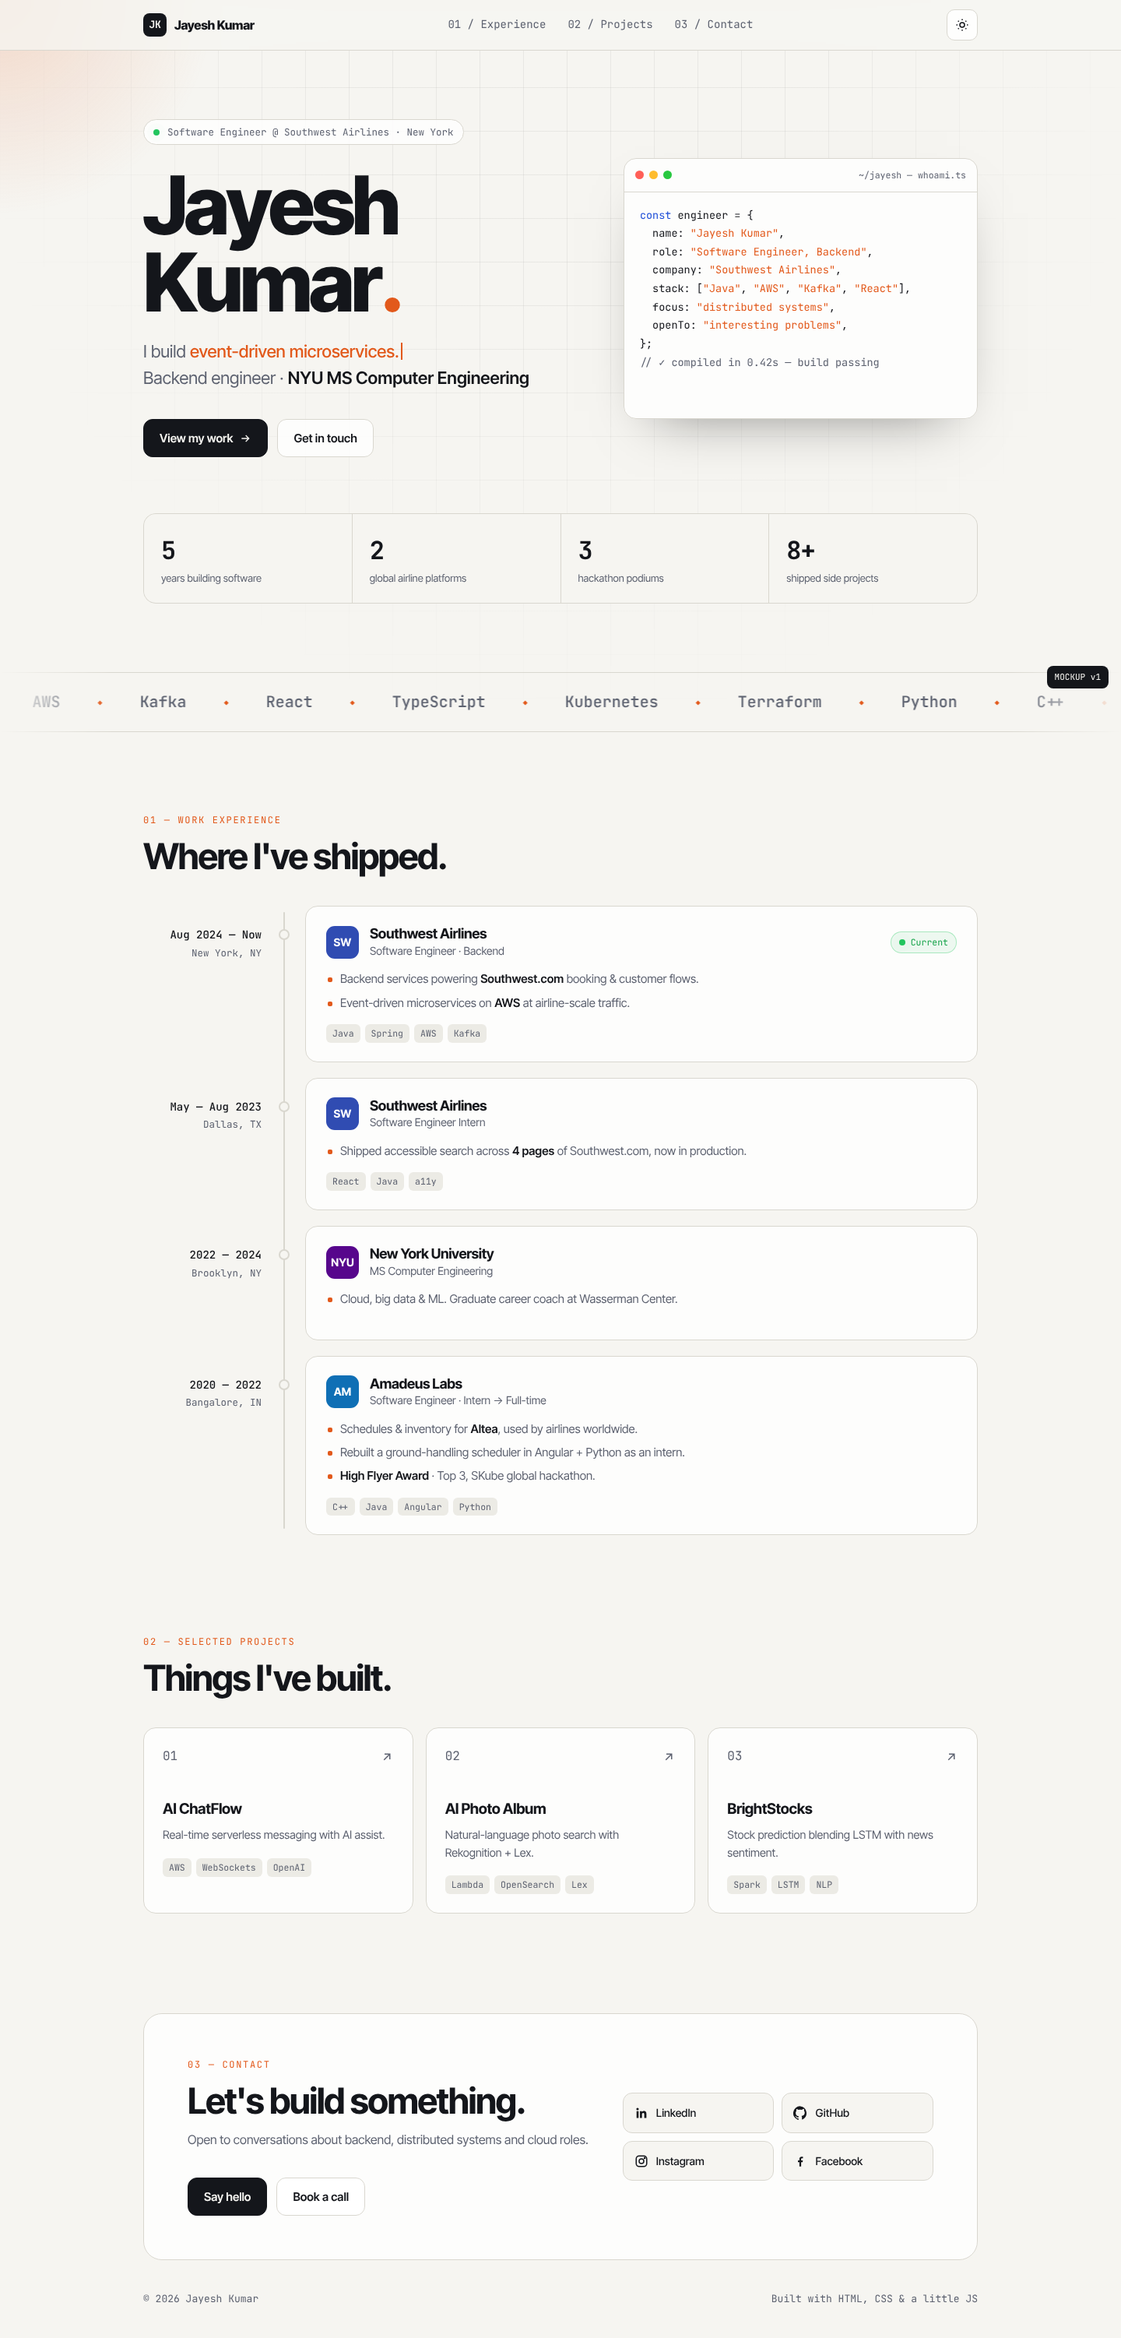
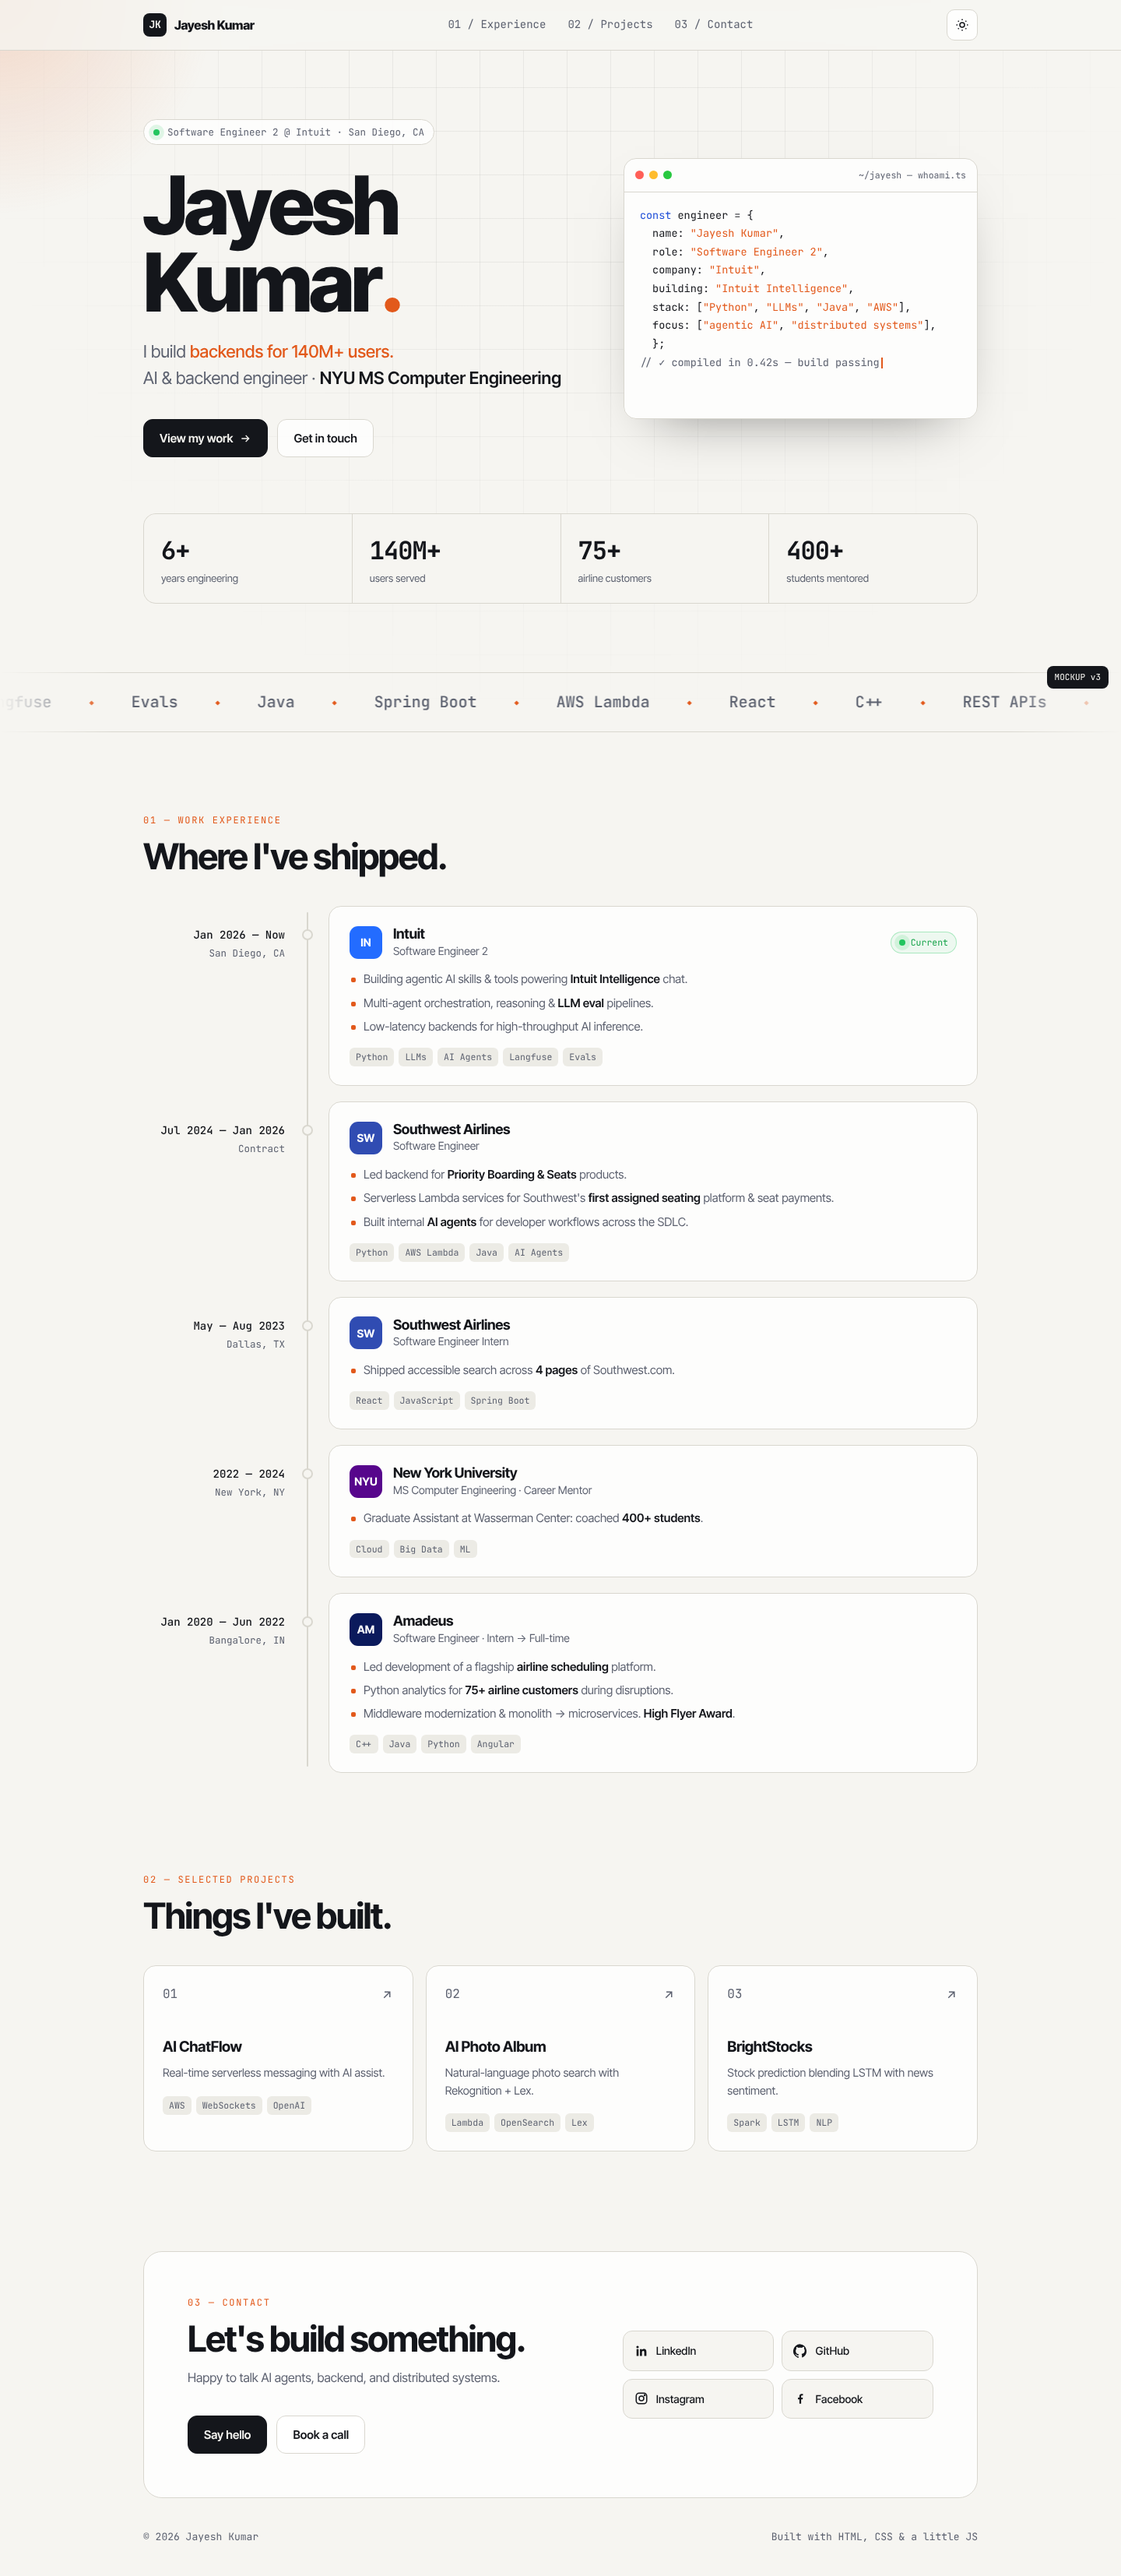
Mockup v3: update with latest LinkedIn experience (Intuit, Southwest, Amadeus)
Claude-Session: https://claude.ai/code/session_01GttXN6xmCPBkrQzVHG2Dbs

diff --git a/mockup/index.html b/mockup/index.html
@@ -4,7 +4,7 @@
 <meta charset="utf-8">
 <meta name="viewport" content="width=device-width, initial-scale=1">
 <title>Jayesh Kumar — Software Engineer</title>
-<meta name="description" content="Jayesh Kumar — backend & distributed systems engineer. Portfolio mockup.">
+<meta name="description" content="Jayesh Kumar — Software Engineer at Intuit building agentic AI. Backend & distributed systems.">
 <link rel="preconnect" href="https://fonts.googleapis.com">
 <link rel="preconnect" href="https://fonts.gstatic.com" crossorigin>
 <link href="https://fonts.googleapis.com/css2?family=Inter+Tight:wght@400;500;600;700;800&family=JetBrains+Mono:wght@400;500;700&display=swap" rel="stylesheet">
@@ -99,12 +99,12 @@ h2{font-size:clamp(30px,4.4vw,46px);letter-spacing:-.035em;line-height:1.05;font
 
 /* experience timeline */
 .xp{position:relative;display:grid;gap:20px}
-.xp-line{position:absolute;left:180px;top:8px;bottom:8px;width:2px;background:var(--line);border-radius:2px}
+.xp-line{position:absolute;left:210px;top:8px;bottom:8px;width:2px;background:var(--line);border-radius:2px}
 .xp-fill{position:absolute;left:0;top:0;width:100%;height:var(--p,0%);background:linear-gradient(var(--accent),var(--accent-2));border-radius:2px;transition:height .1s linear}
-.job{display:grid;grid-template-columns:180px 1fr;position:relative}
-.when{padding:26px 28px 0 0;text-align:right;font-size:12.5px;color:var(--muted);line-height:1.7}
+.job{display:grid;grid-template-columns:210px 1fr;position:relative}
+.when{padding:26px 28px 0 0;text-align:right;font-size:12.5px;white-space:nowrap;color:var(--muted);line-height:1.7}
 .when b{display:block;color:var(--text);font-size:14px;font-weight:500}
-.node{position:absolute;left:174px;top:30px;width:14px;height:14px;border-radius:50%;background:var(--bg);border:2px solid var(--line);transition:all .4s;z-index:1}
+.node{position:absolute;left:204px;top:30px;width:14px;height:14px;border-radius:50%;background:var(--bg);border:2px solid var(--line);transition:all .4s;z-index:1}
 .job.active .node{border-color:var(--accent);background:var(--accent);box-shadow:0 0 0 6px var(--glow)}
 .job-card{margin-left:28px;border:1px solid var(--line);border-radius:16px;padding:24px 26px;background:var(--surface);transition:border-color .4s,transform .4s}
 .job.active .job-card{border-color:color-mix(in srgb,var(--accent) 40%,var(--line))}
@@ -185,9 +185,9 @@ footer{padding:40px 0;color:var(--muted);font-size:13px;display:flex;justify-con
 
 <header class="hero wrap">
  <div class="hero-grid"><div>
-  <div class="status mono reveal"><span class="dot"></span>Software Engineer @ Southwest Airlines · New York</div>
+  <div class="status mono reveal"><span class="dot"></span>Software Engineer 2 @ Intuit · San Diego, CA</div>
   <h1 class="reveal"><span class="flap" data-text="Jayesh">Jayesh</span><br><span class="flap" data-text="Kumar">Kumar</span><span class="accent">.</span></h1>
-  <p class="role reveal">I build <span class="typed" id="typed"></span><span class="caret"></span><br>Backend engineer · <b>NYU MS Computer Engineering</b></p>
+  <p class="role reveal">I build <span class="typed" id="typed"></span><span class="caret"></span><br>AI &amp; backend engineer · <b>NYU MS Computer Engineering</b></p>
   <div class="cta reveal">
     <a class="btn primary" href="#work">View my work
       <svg viewBox="0 0 24 24" fill="none" stroke="currentColor" stroke-width="2"><path d="M5 12h14M13 6l6 6-6 6"/></svg></a>
@@ -200,16 +200,16 @@ footer{padding:40px 0;color:var(--muted);font-size:13px;display:flex;justify-con
  </div>
  </div>
   <div class="stats reveal">
-    <div class="stat"><div class="n mono" data-count="5">0</div><div class="l">years building software</div></div>
-    <div class="stat"><div class="n mono" data-count="2">0</div><div class="l">global airline platforms</div></div>
-    <div class="stat"><div class="n mono" data-count="3">0</div><div class="l">hackathon podiums</div></div>
-    <div class="stat"><div class="n mono" data-count="8" data-suffix="+">0</div><div class="l">shipped side projects</div></div>
+    <div class="stat"><div class="n mono" data-count="6" data-suffix="+">0</div><div class="l">years engineering</div></div>
+    <div class="stat"><div class="n mono" data-count="140" data-suffix="M+">0</div><div class="l">users served</div></div>
+    <div class="stat"><div class="n mono" data-count="75" data-suffix="+">0</div><div class="l">airline customers</div></div>
+    <div class="stat"><div class="n mono" data-count="400" data-suffix="+">0</div><div class="l">students mentored</div></div>
   </div>
 </header>
 
 <div class="marquee">
   <div class="track mono" id="track">
-    <span>Java</span><span>Spring Boot</span><span>AWS</span><span>Kafka</span><span>React</span><span>TypeScript</span><span>Kubernetes</span><span>Terraform</span><span>Python</span><span>C++</span><span>DynamoDB</span><span>PostgreSQL</span>
+    <span>Python</span><span>LLMs</span><span>AI Agents</span><span>Langfuse</span><span>Evals</span><span>Java</span><span>Spring Boot</span><span>AWS Lambda</span><span>React</span><span>C++</span><span>REST APIs</span><span>Distributed Systems</span>
   </div>
 </div>
 
@@ -220,17 +220,25 @@ footer{padding:40px 0;color:var(--muted);font-size:13px;display:flex;justify-con
     <div class="xp-line"><div class="xp-fill" id="xpFill"></div></div>
 
     <div class="job reveal">
-      <div class="when mono"><b>Aug 2024 — Now</b>New York, NY</div>
+      <div class="when mono"><b>Jan 2026 — Now</b>San Diego, CA</div>
+      <div class="node"></div>
+      <div class="job-card">
+        <div class="jh"><div class="mark" style="background:#236cff">IN</div>
+          <div><h3>Intuit</h3><div class="r">Software Engineer 2</div></div>
+          <span class="now mono"><span class="dot"></span><span class="t">Current</span></span></div>
+        <ul><li>Building agentic AI skills &amp; tools powering <b>Intuit Intelligence</b> chat.</li><li>Multi-agent orchestration, reasoning &amp; <b>LLM eval</b> pipelines.</li><li>Low-latency backends for high-throughput AI inference.</li></ul>
+        <div class="tags mono"><span class="tag">Python</span><span class="tag">LLMs</span><span class="tag">AI Agents</span><span class="tag">Langfuse</span><span class="tag">Evals</span></div>
+      </div>
+    </div>
+
+    <div class="job reveal">
+      <div class="when mono"><b>Jul 2024 — Jan 2026</b>Contract</div>
       <div class="node"></div>
       <div class="job-card">
         <div class="jh"><div class="mark" style="background:#304cb2">SW</div>
-          <div><h3>Southwest Airlines</h3><div class="r">Software Engineer · Backend</div></div>
-          <span class="now mono"><span class="dot"></span><span class="t">Current</span></span></div>
-        <ul>
-          <li>Backend services powering <b>Southwest.com</b> booking &amp; customer flows.</li>
-          <li>Event-driven microservices on <b>AWS</b> at airline-scale traffic.</li>
-        </ul>
-        <div class="tags mono"><span class="tag">Java</span><span class="tag">Spring</span><span class="tag">AWS</span><span class="tag">Kafka</span></div>
+          <div><h3>Southwest Airlines</h3><div class="r">Software Engineer</div></div></div>
+        <ul><li>Led backend for <b>Priority Boarding &amp; Seats</b> products.</li><li>Serverless Lambda services for Southwest's <b>first assigned seating</b> platform &amp; seat payments.</li><li>Built internal <b>AI agents</b> for developer workflows across the SDLC.</li></ul>
+        <div class="tags mono"><span class="tag">Python</span><span class="tag">AWS Lambda</span><span class="tag">Java</span><span class="tag">AI Agents</span></div>
       </div>
     </div>
 
@@ -240,33 +248,30 @@ footer{padding:40px 0;color:var(--muted);font-size:13px;display:flex;justify-con
       <div class="job-card">
         <div class="jh"><div class="mark" style="background:#304cb2">SW</div>
           <div><h3>Southwest Airlines</h3><div class="r">Software Engineer Intern</div></div></div>
-        <ul><li>Shipped accessible search across <b>4 pages</b> of Southwest.com, now in production.</li></ul>
-        <div class="tags mono"><span class="tag">React</span><span class="tag">Java</span><span class="tag">a11y</span></div>
+        <ul><li>Shipped accessible search across <b>4 pages</b> of Southwest.com.</li></ul>
+        <div class="tags mono"><span class="tag">React</span><span class="tag">JavaScript</span><span class="tag">Spring Boot</span></div>
       </div>
     </div>
 
     <div class="job reveal">
-      <div class="when mono"><b>2022 — 2024</b>Brooklyn, NY</div>
+      <div class="when mono"><b>2022 — 2024</b>New York, NY</div>
       <div class="node"></div>
       <div class="job-card">
         <div class="jh"><div class="mark" style="background:#57068c">NYU</div>
-          <div><h3>New York University</h3><div class="r">MS Computer Engineering</div></div></div>
-        <ul><li>Cloud, big data &amp; ML. Graduate career coach at Wasserman Center.</li></ul>
+          <div><h3>New York University</h3><div class="r">MS Computer Engineering · Career Mentor</div></div></div>
+        <ul><li>Graduate Assistant at Wasserman Center: coached <b>400+ students</b>.</li></ul>
+        <div class="tags mono"><span class="tag">Cloud</span><span class="tag">Big Data</span><span class="tag">ML</span></div>
       </div>
     </div>
 
     <div class="job reveal">
-      <div class="when mono"><b>2020 — 2022</b>Bangalore, IN</div>
+      <div class="when mono"><b>Jan 2020 — Jun 2022</b>Bangalore, IN</div>
       <div class="node"></div>
       <div class="job-card">
-        <div class="jh"><div class="mark" style="background:#0f6fb5">AM</div>
-          <div><h3>Amadeus Labs</h3><div class="r">Software Engineer · Intern → Full-time</div></div></div>
-        <ul>
-          <li>Schedules &amp; inventory for <b>Altea</b>, used by airlines worldwide.</li>
-          <li>Rebuilt a ground-handling scheduler in Angular + Python as an intern.</li>
-          <li><b>High Flyer Award</b> · Top 3, SKube global hackathon.</li>
-        </ul>
-        <div class="tags mono"><span class="tag">C++</span><span class="tag">Java</span><span class="tag">Angular</span><span class="tag">Python</span></div>
+        <div class="jh"><div class="mark" style="background:#0b1a5c">AM</div>
+          <div><h3>Amadeus</h3><div class="r">Software Engineer · Intern → Full-time</div></div></div>
+        <ul><li>Led development of a flagship <b>airline scheduling</b> platform.</li><li>Python analytics for <b>75+ airline customers</b> during disruptions.</li><li>Middleware modernization &amp; monolith → microservices. <b>High Flyer Award</b>.</li></ul>
+        <div class="tags mono"><span class="tag">C++</span><span class="tag">Java</span><span class="tag">Python</span><span class="tag">Angular</span></div>
       </div>
     </div>
   </div>
@@ -299,8 +304,8 @@ footer{padding:40px 0;color:var(--muted);font-size:13px;display:flex;justify-con
     <div>
       <div class="eyebrow mono">03 — Contact</div>
       <h2>Let's build something.</h2>
-      <p>Open to conversations about backend, distributed systems and cloud roles.</p>
-      <div class="cta"><a class="btn primary" href="mailto:jayesh.kumar@nyu.edu">Say hello</a>
+      <p>Happy to talk AI agents, backend, and distributed systems.</p>
+      <div class="cta"><a class="btn primary" href="mailto:jayesh1302@gmail.com">Say hello</a>
         <a class="btn" href="https://calendly.com/jayesh1302/bobatalk" target="_blank" rel="noopener">Book a call</a></div>
     </div>
     <div class="socials">
@@ -313,7 +318,7 @@ footer{padding:40px 0;color:var(--muted);font-size:13px;display:flex;justify-con
   <footer class="mono"><span>© 2026 Jayesh Kumar</span><span>Built with HTML, CSS &amp; a little JS</span></footer>
 </section>
 
-<div class="mock-tag mono">MOCKUP v1</div>
+<div class="mock-tag mono">MOCKUP v3</div>
 
 <script>
 (() => {
@@ -347,7 +352,7 @@ footer{padding:40px 0;color:var(--muted);font-size:13px;display:flex;justify-con
   }
   document.querySelectorAll('.flap').forEach((el,i)=>flap(el, i*250));
   // typed roles
-  const words = ['backend systems at airline scale.','event-driven microservices.','cloud-native platforms on AWS.','tools people actually use.'];
+  const words = ['agentic AI at Intuit.','multi-agent systems & evals.','backends for 140M+ users.','cloud-native platforms on AWS.'];
   const typed = document.getElementById('typed'); let wi=0, ci=0, del=false;
   (function tick(){
     const w = words[wi]; typed.textContent = w.slice(0, ci);
@@ -359,8 +364,9 @@ footer{padding:40px 0;color:var(--muted);font-size:13px;display:flex;justify-con
   const io = new IntersectionObserver(es => es.forEach(e => {
     if (!e.isIntersecting) return; e.target.classList.add('in'); io.unobserve(e.target);
     e.target.querySelectorAll('[data-count]').forEach(c => {
-      const end = +c.dataset.count, suf = c.dataset.suffix||''; let v=0;
-      const t = setInterval(()=>{ v++; c.textContent = v+suf; if(v>=end) clearInterval(t); }, 120);
+      const end = +c.dataset.count, suf = c.dataset.suffix||'', t0 = performance.now();
+      const step = now => { const k = Math.min(1,(now-t0)/1400), e = 1-Math.pow(1-k,3); c.textContent = Math.round(end*e)+suf; if(k<1) requestAnimationFrame(step); };
+      requestAnimationFrame(step);
     });
   }), {threshold:.15});
   document.querySelectorAll('.reveal').forEach((el,i)=>{ el.style.transitionDelay = (i%4)*70+'ms'; io.observe(el); });
@@ -384,12 +390,12 @@ footer{padding:40px 0;color:var(--muted);font-size:13px;display:flex;justify-con
   // terminal typing
   const html = `<span class="k">const</span> engineer = {
   name: <span class="s">"Jayesh Kumar"</span>,
-  role: <span class="s">"Software Engineer, Backend"</span>,
-  company: <span class="s">"Southwest Airlines"</span>,
-  stack: [<span class="s">"Java"</span>, <span class="s">"AWS"</span>, <span class="s">"Kafka"</span>, <span class="s">"React"</span>],
-  focus: <span class="s">"distributed systems"</span>,
-  openTo: <span class="s">"interesting problems"</span>,
-};
+  role: <span class="s">"Software Engineer 2"</span>,
+  company: <span class="s">"Intuit"</span>,
+  building: <span class="s">"Intuit Intelligence"</span>,
+  stack: [<span class="s">"Python"</span>, <span class="s">"LLMs"</span>, <span class="s">"Java"</span>, <span class="s">"AWS"</span>],
+  focus: [<span class="s">"agentic AI"</span>, <span class="s">"distributed systems"</span>],
+  };
 <span class="c">// ✓ compiled in 0.42s — build passing</span>`;
   const term = document.getElementById('term');
   if (reduce) term.innerHTML = html; else {
